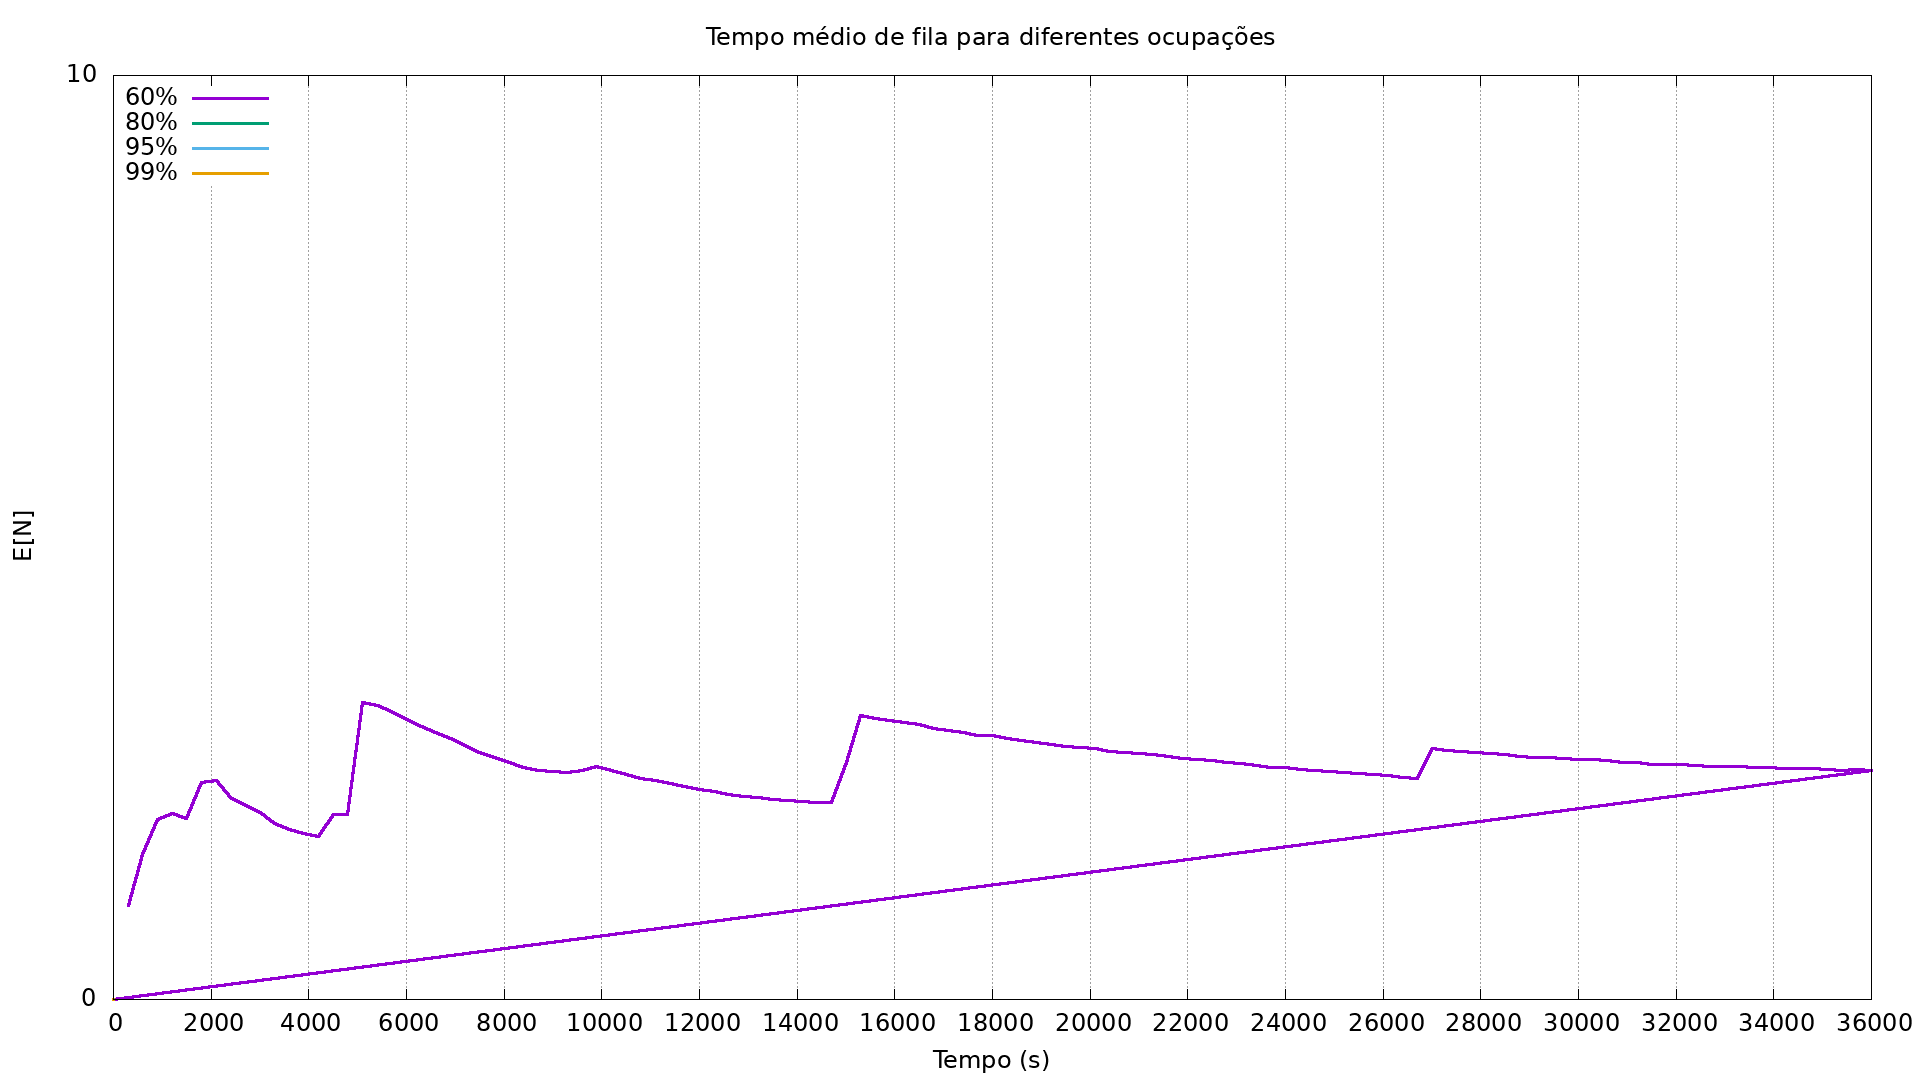
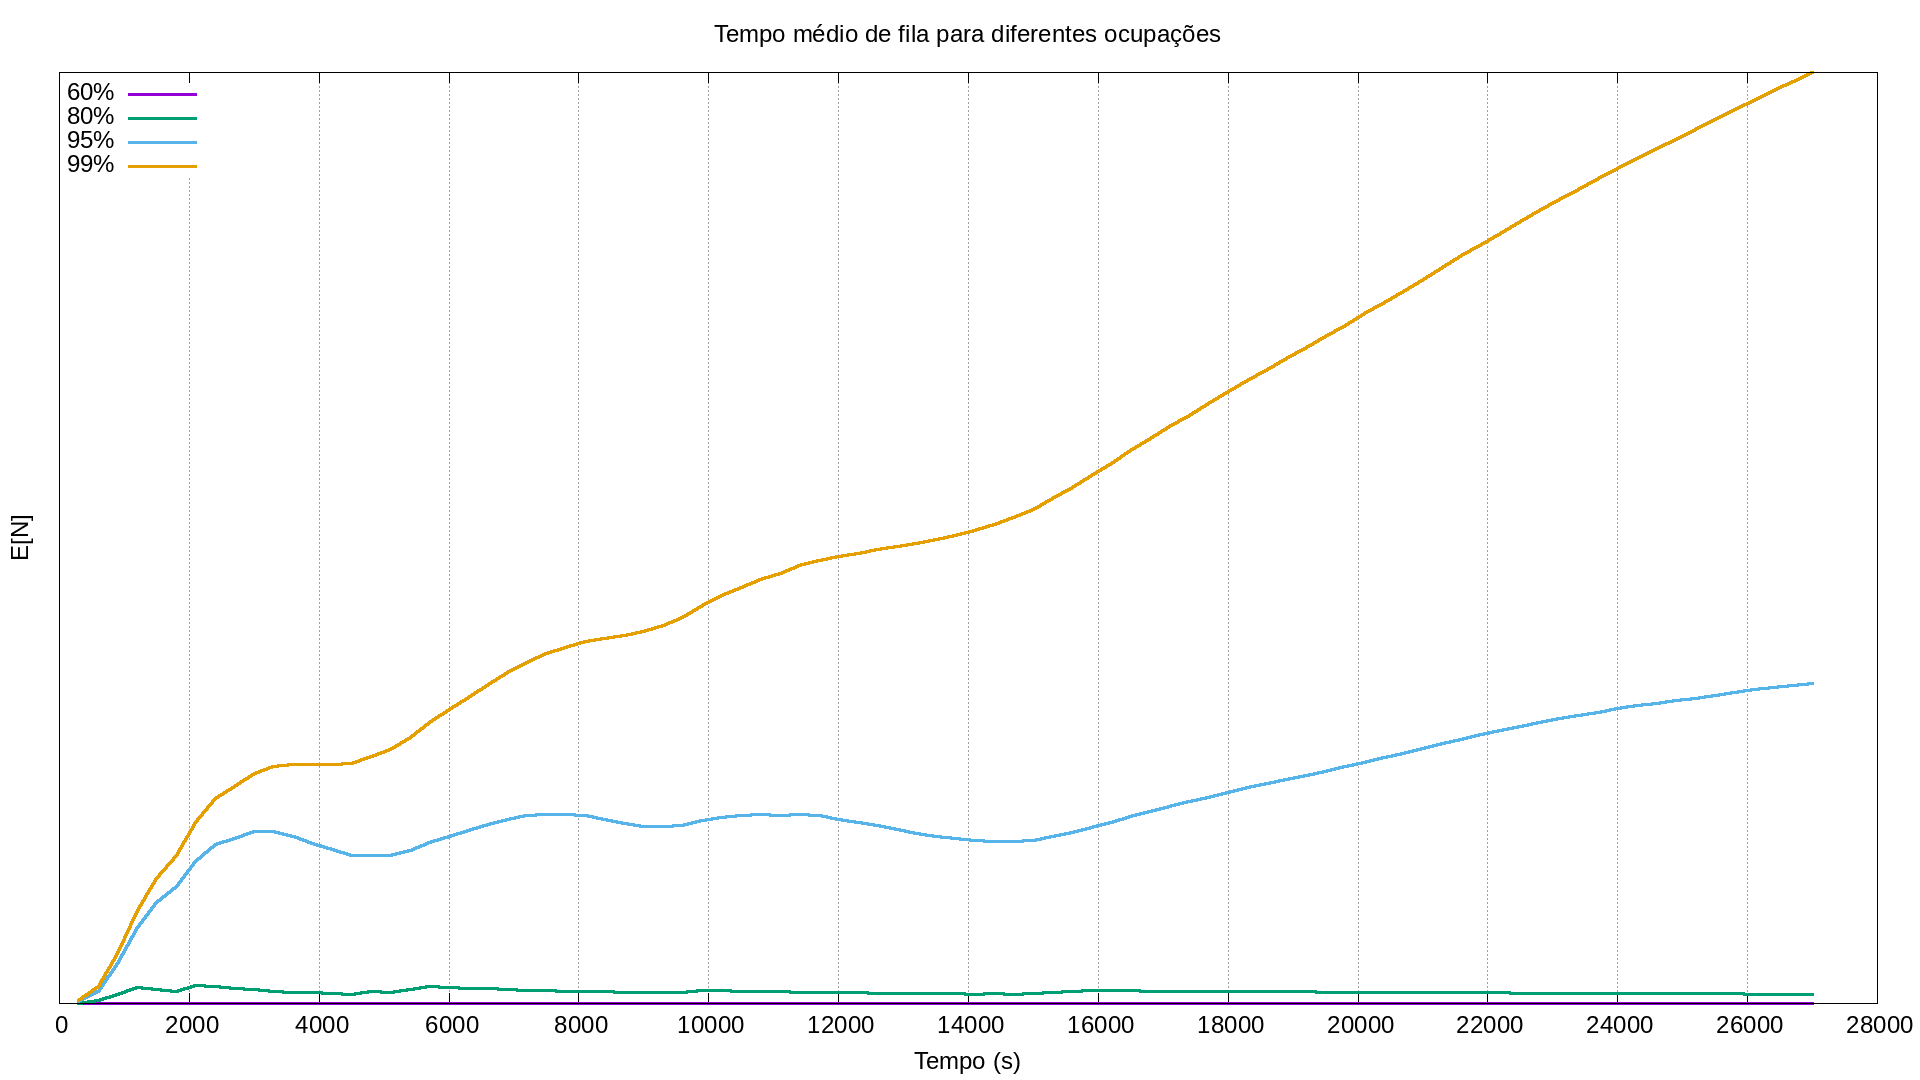
feature: removendo os pontos de gráfico não usados

diff --git a/Simulador 2 - Parte 2/simulacao.c b/Simulador 2 - Parte 2/simulacao.c
@@ -288,8 +288,8 @@ void resolve(float percentual_calculado, grafico *grafico, chamada *chamada)
     // EDIT: taxas médias do link para cada ocupação, quanto maior a largura, menos ocupado
     double link[4] = {73500, 55125, 46421, 44545};
     // EDIT2: em média 17280Kb em 105 segundos somente de chamadas, ou seja, 164.5714286Kbps ->  20571.428575 Bytes/s -> somado com a navegacao = 20571.428575 + 44100 = 64671.428575 Bytes/s
-    // double new_link[4] = {107785.714291667, 80839.28571875, 68075.1879736842, 65324.6753282828};
-    double new_link[4] = {126833.33333333334, 95125.0, 80105.26315789475, 76868.68686868687}; //<- feito sem considerar os 15 primeiros segundos ocioso do desenho de 105. considerei as 4 ligações simultaneas medias
+     double new_link[4] = {107785.714291667, 80839.28571875, 68075.1879736842, 65324.6753282828};
+    //double new_link[4] = {126833.33333333334, 95125.0, 80105.26315789475, 76868.68686868687}; //<- feito sem considerar os 15 primeiros segundos ocioso do desenho de 105. considerei as 4 ligações simultaneas medias
     // Looping de simulação
     while (tempo_decorrido <= tempo_simulacao)
     {
@@ -493,7 +493,7 @@ void cria_grafico(grafico *graficos, char *titulo_grafico, char *eixo_y, char *e
     {
         for (int i = 0; i < 4; i++)
         {
-            for (int j = 0; j < TEMPO_SIMULACAO_EM_INTERVALO; j++)
+            for (int j = 0; j < TEMPO_SIMULACAO_EM_INTERVALO / 4; j++)
             {
                 printf("    %lF %.20lF \n", graficos[i].tempo[j], graficos[i].little[j]);
             }
@@ -504,7 +504,7 @@ void cria_grafico(grafico *graficos, char *titulo_grafico, char *eixo_y, char *e
     {
         for (int i = 0; i < 4; i++)
         {
-            for (int j = 0; j < TEMPO_SIMULACAO_EM_INTERVALO; j++)
+            for (int j = 0; j < TEMPO_SIMULACAO_EM_INTERVALO / 4; j++)
             {
                 printf("    %lF %lF \n", graficos[i].tempo[j], graficos[i].e_n_final[j]);
             }
@@ -515,7 +515,7 @@ void cria_grafico(grafico *graficos, char *titulo_grafico, char *eixo_y, char *e
     {
         for (int i = 0; i < 4; i++)
         {
-            for (int j = 0; j < TEMPO_SIMULACAO_EM_INTERVALO; j++)
+            for (int j = 0; j < TEMPO_SIMULACAO_EM_INTERVALO / 4; j++)
             {
                 printf("    %lF %lF \n", graficos[i].tempo[j], graficos[i].e_w_final[j]);
             }
@@ -526,7 +526,7 @@ void cria_grafico(grafico *graficos, char *titulo_grafico, char *eixo_y, char *e
     {
         for (int i = 0; i < 4; i++)
         {
-            for (int j = 0; j < TEMPO_SIMULACAO_EM_INTERVALO; j++)
+            for (int j = 0; j < TEMPO_SIMULACAO_EM_INTERVALO / 4; j++)
             {
                 printf("    %lF %lF \n", graficos[i].tempo[j], graficos[i].ocupacao[j]);
             }
@@ -537,7 +537,7 @@ void cria_grafico(grafico *graficos, char *titulo_grafico, char *eixo_y, char *e
     {
         for (int i = 0; i < 4; i++)
         {
-            for (int j = 0; j < TEMPO_SIMULACAO_EM_INTERVALO; j++)
+            for (int j = 0; j < TEMPO_SIMULACAO_EM_INTERVALO / 4; j++)
             {
                 printf("    %lF %lF \n", graficos[i].tempo[j], graficos[i].max_fila[j]);
             }
@@ -548,7 +548,7 @@ void cria_grafico(grafico *graficos, char *titulo_grafico, char *eixo_y, char *e
     {
         for (int i = 0; i < 4; i++)
         {
-            for (int j = 0; j < TEMPO_SIMULACAO_EM_INTERVALO; j++)
+            for (int j = 0; j < TEMPO_SIMULACAO_EM_INTERVALO / 4; j++)
             {
                 printf("    %lF %lF \n", graficos[i].tempo[j], graficos[i].lambda[j]);
             }
@@ -589,7 +589,7 @@ void main()
      * Iniciamos as structs do array de gráficos e a enviamos por referência para "resolve"
      * A função "resolve" irá preencher os dados de cada gráfico
      */
-    for (int i = 0; i < 1; i++)
+    for (int i = 0; i < 4; i++)
     {
         inicia_grafico(&graficos[i]);
         resolve(taxas[i], &graficos[i], &chamada);
